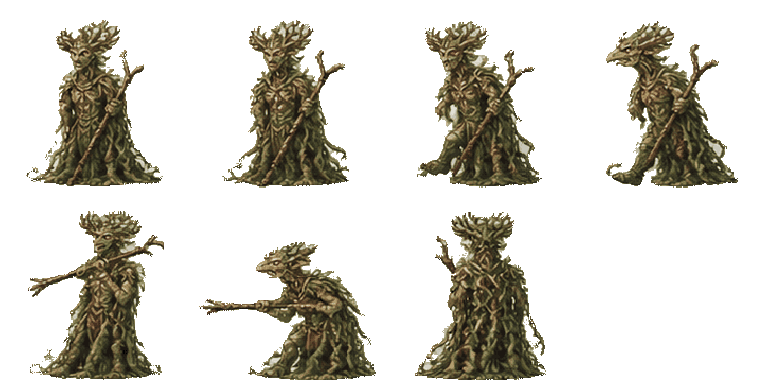
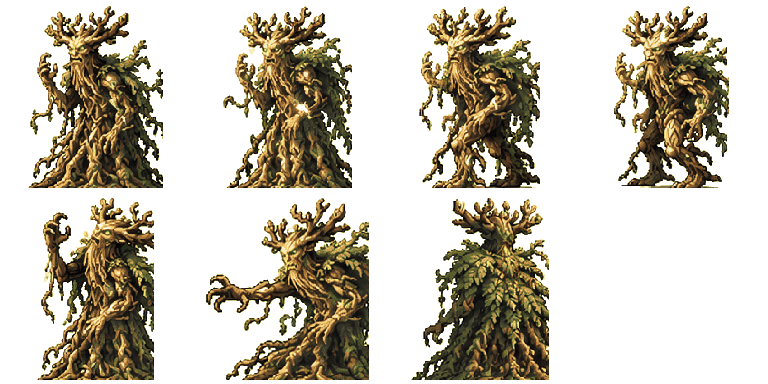
GRAFTBOUND v1.8.1-beta: owner gameplay fixes and newly painted HD-2D bosses

diff --git a/graftbound/src/ui/battle-ui.js b/graftbound/src/ui/battle-ui.js
@@ -27,7 +27,7 @@ import { terrainInspectPlacement, TileInspectLatch } from './terrain-inspect.js'
 import { exileZone, discardRequirement } from '../engine/zones.js';
 import { exilePortalCanvas } from './exile-portal.js';
 import { visualScale } from '../rendering/creature-scale.js';
-import { wolfCoatFor, recoatSheet, WOLF_KEYS, LEADER_KEYS, LEADER_COAT } from '../rendering/creature-variants.js';
+import { wolfCoatFor, recoatSheet, WOLF_KEYS, LEADER_KEYS, LEADER_COAT, THEME_BIOME } from '../rendering/creature-variants.js';
 
 const $ = id => document.getElementById(id);
 const SPELL_COL = { ember: [1, 0.55, 0.2], verdant: [0.5, 1, 0.4], tide: [0.4, 0.8, 1], umbral: [0.75, 0.45, 1], radiant: [1, 0.9, 0.5] };
@@ -39,6 +39,18 @@ export function kwChips(keywords, cls = '') {
 }
 
 const exileCount = s => { const z = exileZone(s); return z.yours.length + z.foes.length; };
+/** v1.8.1 status presentation (pure). Friendly buffs rise, hostile effects drip; colours are fixed per status so they
+ *  stay distinguishable. Re-uses previous entries so pulse timers don't restart on every label refresh. */
+const s0Traits = ui => ui.s?.traits || [];
+export const STATUS_FX = Object.freeze({
+  empowered: { col: [1, 0.8, 0.3], hostile: false }, shield: { col: [0.5, 0.8, 1], hostile: false }, guard: { col: [0.62, 0.86, 1], hostile: false },
+  weakened: { col: [0.72, 0.32, 0.92], hostile: true }, poison: { col: [0.42, 0.95, 0.3], hostile: true }, stunned: { col: [1, 0.95, 0.45], hostile: true }, grounded: { col: [0.75, 0.55, 0.35], hostile: true },
+});
+export function statusVisuals(d, prev = []) {
+  const out = [];
+  for (const [k, spec] of Object.entries(STATUS_FX)) if (d?.[k] > 0) out.push(prev?.find(p => p.key === k) || { key: k, col: spec.col, hostile: spec.hostile, t: 0 });
+  return out;
+}
 export class BattleUI {
   constructor(app) {
     this.app = app; this.audio = app.audio;
@@ -115,6 +127,7 @@ export class BattleUI {
       const ap = deriveAppearance(this.run.evo, visualForRun(this.run));
       v = this.scene.addUnit(u, 'blank'); { const bm = this.app.assets.manifest.sprites.blank; this.scene.setUnitTexture(u.uid, composeEquippedSheet(this.app.assets, ap, u.equipment || [], u.auras || []), visualScale('blank', bm, bm.bounds, { heroSize: ap.size })); }
       v.aura = ap.effects.includes('aura') ? ap.glow : null;
+      v.electro = !!s0Traits(this).includes('electrofield');   // v1.8.1 passive Electrostatic Field arcs (visual only)
       v.hover = u.keywords.flying ? 0.14 : 0;   // v0.6: fliers levitate; trample builds plant heavier steps (see play())
       v.style = { flying: !!u.keywords.flying, trample: !!u.keywords.trample, deathtouch: !!u.keywords.deathtouch, doubleStrike: !!u.keywords.doubleStrike, lifelink: !!u.keywords.lifelink,
         armored: !!ap.slots.body || ap.size >= 1.45 };
@@ -129,7 +142,7 @@ export class BattleUI {
         u.name === 'Soldier' ? 'mtg_friendlySoldier' : 'mtg_friendlySproutling');
       v = this.scene.addUnit(u, friend ? tokenKey : ENEMIES[u.defId].sprite);   // v1.7.0: size from the central species table
       { const key = friend ? tokenKey : ENEMIES[u.defId].sprite, img = this.app.assets.images[key];   // v1.7.0 wolf coats / pack leader
-        const coat = LEADER_KEYS.has(key) ? LEADER_COAT : WOLF_KEYS.has(key) ? wolfCoatFor(this.run?.seed || 0, u.uid) : null;
+        const coat = LEADER_KEYS.has(key) ? LEADER_COAT : WOLF_KEYS.has(key) ? wolfCoatFor(this.run?.seed || 0, u.uid, THEME_BIOME[this.scene?.theme] || 'temperate') : null;
         if (coat && coat.hue != null && img) this.scene.setUnitTexture(u.uid, recoatSheet(img, coat, key)); }
       if (friend && tokenKey === 'mtg_friendlySoldier') {
         const src=this.app.assets.images.mtg_friendlySoldier, mask=this.app.assets.images['mtg_friendlySoldier:skinMask'];
@@ -163,7 +176,7 @@ export class BattleUI {
     else v.aura=null;
   }
   syncDisp() {
-    for (const u of this.s.units) this.disp.set(u.uid, { hp: u.hp, maxHp: u.maxHp, shield: u.statuses.shield || 0, poison: u.statuses.poison || 0, stunned: u.statuses.stunned || 0, empowered: u.statuses.empowered || 0, weakened: u.statuses.weakened || 0, grounded: u.statuses.grounded || 0 });
+    for (const u of this.s.units) this.disp.set(u.uid, { hp: u.hp, maxHp: u.maxHp, shield: u.statuses.shield || 0, guard: u.statuses.guard || 0, poison: u.statuses.poison || 0, stunned: u.statuses.stunned || 0, empowered: u.statuses.empowered || 0, weakened: u.statuses.weakened || 0, grounded: u.statuses.grounded || 0 });
     this.dispMana = availableMana(this.s);
   }
   frame() {
@@ -197,11 +210,12 @@ export class BattleUI {
     }
     const u = this.s.units.find(x => x.uid === uid);
     const armor = u && u.keywords && u.keywords.armor ? `<span class="st ar">▣${u.keywords.armor}</span>` : '';
-    const stList = [armor, u?.slime ? `<span class="st gb-slime" title="Toxrill: ${u.slime} slime counter(s), -${u.slime}/-${u.slime}">☣${u.slime}</span>` : '', d.grounded ? `<span class="st gr">${ICON.hook}</span>` : '', d.weakened ? `<span class="st wk">−${d.weakened}⚔</span>` : '', d.shield ? `<span class="st sh">${ICON.shield}${d.shield}</span>` : '', d.poison ? `<span class="st ps">${ICON.poison}${d.poison}</span>` : '', d.stunned ? `<span class="st sn">${ICON.stun}</span>` : '', d.empowered ? `<span class="st em">+${d.empowered}</span>` : ''];
+    const stList = [armor, u?.slime ? `<span class="st gb-slime" title="Toxrill: ${u.slime} slime counter(s), -${u.slime}/-${u.slime}">☣${u.slime}</span>` : '', d.grounded ? `<span class="st gr">${ICON.hook}</span>` : '', d.weakened ? `<span class="st wk">−${d.weakened}⚔</span>` : '', d.shield ? `<span class="st sh">${ICON.shield}${d.shield}</span>` : '', d.guard ? `<span class="st sh gb-guard" title="Guard ${d.guard}: each enemy hit is reduced by ${d.guard}">${ICON.guard}${d.guard}</span>` : '', d.poison ? `<span class="st ps">${ICON.poison}${d.poison}</span>` : '', d.stunned ? `<span class="st sn">${ICON.stun}</span>` : '', d.empowered ? `<span class="st em">+${d.empowered}</span>` : ''];
     // v1.7.0: at most 3 status chips; the rest fold into a '+n' chip (full list in its tooltip)
     const stShown = stList.filter(Boolean), st = (stShown.length > 3 ? [...stShown.slice(0, 2), `<span class="st more" title="${esc(stShown.slice(2).map(x => x.replace(/<[^>]+>/g, '')).join(' · '))}">+${stShown.length - 2}</span>`] : stShown).join('');
     el.innerHTML = `${intent}<div class="hpbar"><i style="width:${pct}%"></i><span>${d.hp}</span></div><div class="sts">${st}</div>`;
     el._h = el.offsetHeight || 24;
+    { const view = this.scene.units.get(uid); if (view) view.statusFx = statusVisuals(d, view.statusFx); }
   }
   intentText(it) {
     const tgt = it.target && this.s.units.find(u => u.uid === it.target);
@@ -219,8 +233,8 @@ export class BattleUI {
     $('plate').innerHTML = `
       <div class="pl-top"><div><div class="pl-name">${esc(this.run.name)}</div><div class="pl-stage">${STAGE[ap.stage]} · ${this.run.evo.absorbed.length} graft${this.run.evo.absorbed.length === 1 ? '' : 's'}</div></div>
       <div class="pl-pt" title="Power / Toughness"><span class="${d.empowered ? 'buff' : d.weakened ? 'debuff' : ''}">${Math.max(0, p.power + (d.empowered || 0) - (d.weakened || 0))}</span>/<span>${p.toughness}</span></div></div>
-      <div class="pl-hp" tabindex="0" data-tip="Health ${d.hp}/${d.maxHp}${d.shield ? ` · shield ${d.shield} absorbs damage first` : ''}. Wounds carry between battles."><div class="bar"><i style="width:${(d.hp / d.maxHp) * 100}%"></i>${d.shield ? `<u style="width:${Math.min(100, d.shield / d.maxHp * 100)}%"></u>` : ''}</div>
-      <span>${ICON.heart}${d.hp}<small>/${d.maxHp}</small>${d.shield ? ` <em class="shd">${ICON.shield}${d.shield}</em>` : ''}</span></div>
+      <div class="pl-hp" tabindex="0" data-tip="Health ${d.hp}/${d.maxHp}${d.shield ? ` · shield ${d.shield} absorbs damage first` : ''}${d.guard ? ` · Guard ${d.guard} reduces each enemy hit` : ''}. Wounds carry between battles."><div class="bar"><i style="width:${(d.hp / d.maxHp) * 100}%"></i>${d.shield ? `<u style="width:${Math.min(100, d.shield / d.maxHp * 100)}%"></u>` : ''}</div>
+      <span>${ICON.heart}${d.hp}<small>/${d.maxHp}</small>${d.shield ? ` <em class="shd" title="Shield ${d.shield}: absorbs ${d.shield} total damage, then is gone">${ICON.shield}${d.shield}</em>` : ''}${d.guard ? ` <em class="shd gb-guard" title="Guard ${d.guard}: each enemy hit is reduced by ${d.guard} (telegraphed blows at least halved) until your next turn">${ICON.guard}Guard ${d.guard}</em>` : ''}</span></div>
       <div class="pl-res"><span class="mana" tabindex="0" data-tip="Mana ${this.dispMana}/${s.p.maxMana}. Spells cost gems. You regain ${s.p.regen} each turn${s.p.arcane ? `; Arcane adds +${s.p.arcane} to spell numbers` : ''}.">${Array.from({ length: Math.max(s.p.maxMana, this.dispMana) }, (_, i) => `<i class="${i < this.dispMana ? 'on' : ''}">${ICON.gem}</i>`).join('')}</span>
 </div>
       <div class="pl-act" role="group" aria-label="Movement, attacks and banked mana"></div>

diff --git a/graftbound/src/engine/ai.js b/graftbound/src/engine/ai.js
@@ -113,8 +113,14 @@ function straightLine(s, from, dir, range) {
  * their next turn outrank the hero, but targets still obey range/line of sight. */
 /** v1.7.0 marksman ordinary shot: one per enemy turn, line of sight, printed Longbow damage, player team only. */
 export function quickShotTarget(s, e, from = e) { const q = ENEMIES[e.defId]?.quickShot; return q ? rangedPriority(s, e, q.range, from, true) : null; }
-function quickShot(s, ev, e, target = quickShotTarget(s, e)) {
-  const q = ENEMIES[e.defId]?.quickShot; if (!q || !target || !alive(target) || target.side === e.side) return;
+/** v1.8.1: the ordinary shot happens AT MOST ONCE per enemy turn (guarded by e.quickShotTurn), from the archer's CURRENT
+ *  position, re-validating range/line of sight against the live board (targets that moved or died are re-picked). */
+function quickShot(s, ev, e, preferred = null) {
+  const q = ENEMIES[e.defId]?.quickShot; if (!q || !alive(e) || s.phase !== 'enemy' || e.statuses?.stunned || e.quickShotTurn === s.turn) return;
+  const ok = u => u && alive(u) && u.side !== e.side && manhattan(e, u) <= q.range && lineOfSight(s, e, u);
+  const target = ok(preferred) ? preferred : quickShotTarget(s, e);
+  if (!ok(target)) return;
+  e.quickShotTurn = s.turn;
   ev.push({ t: 'attack', uid: e.uid, target: target.uid, ranged: true, kind: 'quickShot' }, { t: 'realAbility', uid: e.uid, name: 'Quick shot' });
   dealDamage(s, ev, e, target, q.damage, { kind: 'arrow' });
 }
@@ -324,7 +330,9 @@ export function planEnemy(s, e) {
       }
       if(choice){go(choice.t);plan.actions.push({type:'aim',tiles:choice.line,damage:def.aimDamage});
         const qt=quickShotTarget(s,e,posAfter());if(qt)plan.actions.push({type:'quickShot',target:qt.uid,damage:def.quickShot.damage});}
-      else{const p=victims[0]||hero;const t=list.slice().sort((a,b)=>manhattan(a,p)-manhattan(b,p)||a.cost-b.cost||cmpTile(a,b))[0];go(t);meleeIfAdjacent(meleeTarget(s,{...e,...posAfter()}));}
+      // v1.8.1: no prepared line -> still take the ordinary ranged shot if anything is in range/sight; melee only otherwise
+      else{const p=victims[0]||hero;const t=list.slice().sort((a,b)=>manhattan(a,p)-manhattan(b,p)||a.cost-b.cost||cmpTile(a,b))[0];go(t);
+        const qt=quickShotTarget(s,e,posAfter());if(qt)plan.actions.push({type:'quickShot',target:qt.uid,damage:def.quickShot.damage});else meleeIfAdjacent(meleeTarget(s,{...e,...posAfter()}));}
       break;
     }
     case 'guardian': {
@@ -457,7 +465,7 @@ function resolvePending(s, ev, e) {
     let victim = null;
     for (const t of aim.tiles) { if (tileAt(s, t.x, t.y) === T.ROCK) break; const u = unitAt(s, t.x, t.y); if (u && alive(u) && u.side !== e.side) { victim = u; break; } }
     if (victim) dealDamage(s, ev, e, victim, aim.damage, { kind: 'arrow' });
-    if (ENEMIES[e.defId]?.quickShot && alive(e) && s.phase === 'enemy') quickShot(s, ev, e);   // the turn's ordinary shot
+    quickShot(s, ev, e);   // the turn's ordinary shot (guarded: once per turn)
     return true;
   }
   if (e.slam) {
@@ -560,7 +568,7 @@ export function actEnemy(s, ev, e) {
       case 'hex': {const tgt=s.units.find(u=>u.uid===a.target&&alive(u));if(!tgt)break;ev.push({t:'hex',uid:e.uid,target:tgt.uid});dealDamage(s,ev,e,tgt,a.damage,{kind:'hex'});if(alive(tgt))addStatus(s,ev,tgt,'weakened',a.weaken);break;}
       case 'harpoon': {const tgt=s.units.find(u=>u.uid===a.target&&alive(u));if(!tgt)break;ev.push({t:'harpoon',uid:e.uid,target:tgt.uid});dealDamage(s,ev,e,tgt,a.damage,{kind:'harpoon'});if(a.ground&&alive(tgt))addStatus(s,ev,tgt,'grounded',1);break;}
       case 'aim': e.aim = { tiles: a.tiles, damage: a.damage }; ev.push({ t: 'aim', uid: e.uid, tiles: a.tiles }); break;
-      case 'quickShot': { const tgt = s.units.find(u => u.uid === a.target && alive(u)); if (tgt) quickShot(s, ev, e, tgt); break; }
+      case 'quickShot': quickShot(s, ev, e, s.units.find(u => u.uid === a.target)); break;
       case 'sporefield':
     case 'fissure':
     case 'fracture': {

diff --git a/graftbound/src/rendering/scene.js b/graftbound/src/rendering/scene.js
@@ -413,9 +413,30 @@ export class Scene {
       if (e.kind === 'lava' && r() < 0.3) this.fx.emit({ pos: [e.pos[0] + (r() - 0.5) * 0.6, e.pos[1] + 0.02, e.pos[2] + (r() - 0.5) * 0.6], vel: [(r() - 0.5) * 0.2, 0.6 + r() * 0.8, (r() - 0.5) * 0.2], col: [1, 0.5 + r() * 0.3, 0.12, 1], size: 6 + r() * 5, life: 0.9, grav: -0.6, drag: 0.4 });
       if (e.kind === 'fire' || e.kind === 'voidfire') for (let k = 0; k < 2; k++) this.fx.emit({ pos: [e.pos[0] + (r() - 0.5) * 0.15, e.pos[1], e.pos[2] + (r() - 0.5) * 0.15], vel: [(r() - 0.5) * 0.2, 0.9 + r() * 0.6, (r() - 0.5) * 0.2], col: e.kind === 'voidfire' ? (r() < 0.3 ? [0.9, 0.8, 1, 1] : [0.6, 0.3, 1, 1]) : (r() < 0.3 ? [1, 0.9, 0.5, 1] : [1, 0.45, 0.12, 1]), size: 10 + r() * 8, life: 0.5 + r() * 0.3, drag: 1 });
     }
-    for (const v of this.units.values()) if (v.aura && r() < 0.6) {
-      const a = r() * 6.28; const h = this.heightOf(v);
-      this.fx.emit({ pos: [v.pos[0] + Math.cos(a) * 0.3 * v.scale, v.pos[1] + 0.1 + r() * h, v.pos[2] + Math.sin(a) * 0.3 * v.scale], vel: [0, 0.35, 0], col: [...v.aura, 0.9], size: 7, life: 1, drag: 0.3 });
+    // v1.8.1: buffs/auras/statuses read ~2x stronger (presentation only; see statusVisuals in battle-ui.js).
+    // Permanent auras: a steady column of rising motes (2x rate, ~1.6x size, brighter core).
+    // Temporary statuses: a pulsing ground ring + motes; friendly effects RISE, hostile effects DRIP DOWN.
+    const pulse = this.reduced ? 1.6 : 0.9, dens = Math.max(0.35, this.fx.density || 1);
+    for (const v of this.units.values()) {
+      if (v.hidden || v.dissolve > 0.5) continue;
+      const h = this.heightOf(v), rad = 0.32 * Math.min(1.6, v.scale * 2);
+      if (v.aura && r() < (this.reduced ? 0.5 : 1) * dens) for (let k = 0; k < 2; k++) { const a = r() * 6.28;
+        this.fx.emit({ pos: [v.pos[0] + Math.cos(a) * rad, v.pos[1] + 0.1 + r() * h, v.pos[2] + Math.sin(a) * rad], vel: [0, 0.4, 0], col: [...v.aura, 1], size: k ? 11 : 7, life: 1.1, drag: 0.3 }); }
+      // v1.8.1 Electrostatic Field graft: a tiny cool-blue arc crawls over the body every ~3 s (scene clock, no gameplay
+      // events, no simulation RNG). Size follows the sprite; reduced motion shows a single faint flicker less often.
+      if (v.electro) { v.electroT = (v.electroT ?? (v.uid % 7) * 0.4) + dt; const every = this.reduced ? 6 : 2.8;
+        if (v.electroT >= every) { v.electroT = 0; const n = this.reduced ? 1 : 3;
+          for (let k = 0; k < n; k++) { const a = (this.time * 1.7 + k * 2.1) % 6.283, y0 = v.pos[1] + h * (0.25 + 0.5 * ((k * 0.37 + this.time * 0.13) % 1));
+            const p = [v.pos[0] + Math.cos(a) * rad * 0.8, y0, v.pos[2] + Math.sin(a) * rad * 0.8];
+            this.addBolt({ a: p, b: [p[0] + Math.cos(a + 1.2) * 0.18, p[1] + 0.12, p[2] + Math.sin(a + 1.2) * 0.18], life: 0.12, width: 0.018, col: [0.55, 0.85, 1], segs: 4 }); }
+          if (!this.reduced) this.light([v.pos[0], v.pos[1] + h * 0.5, v.pos[2]], [0.5, 0.8, 1], 1.0, 0.18, 0.7); } }
+      for (const fx of v.statusFx || []) {
+        fx.t = (fx.t || r() * pulse) + dt;
+        if (fx.t >= pulse) { fx.t = 0; this.addRing({ pos: [v.pos[0], 0.035, v.pos[2]], r0: fx.hostile ? rad * 1.5 : rad * 0.6, r1: fx.hostile ? rad * 0.6 : rad * 1.5, life: 0.6, col: fx.col, width: 0.07, seg: 24 }); }
+        if (!this.reduced && r() < 0.55 * dens) { const a = r() * 6.28;
+          this.fx.emit({ pos: [v.pos[0] + Math.cos(a) * rad, v.pos[1] + (fx.hostile ? h * (0.6 + r() * 0.4) : 0.1 + r() * h * 0.5), v.pos[2] + Math.sin(a) * rad],
+            vel: [0, fx.hostile ? -0.45 : 0.5, 0], col: [...fx.col, 1], size: 10, life: 0.9, drag: 0.2 }); }
+      }
     }
   }
 }

diff --git a/graftbound/src/rendering/vfx.js b/graftbound/src/rendering/vfx.js
@@ -289,7 +289,31 @@ export async function snakeskin(sc, { from, to, target, charged = false }) {
   await sleep(sc, 210);
 }
 /** Distinct hand-authored cast identities for the expanded real-card spellbook. */
-export async function strikeBolt(sc, args) { await lightningBolt(sc, args); }
+/** v1.8.1 Lightning Strike: storm smoke gathers ABOVE THE CASTER'S HEAD, coalesces into a small thundercloud that pulses
+ *  with internal sparks, then the existing bolt launches FROM that cloud to the target; the cloud breaks into wisps after.
+ *  Presentation only: same bolt/branching/impact as before. Fast/instant: no cloud. Reduced motion: short static cloud. */
+export const STORM_CLOUD = Object.freeze({ gather: 420, pulse: 260, above: 0.42 });
+export async function strikeBolt(sc, args) {
+  const uid = args.uidFrom ?? args.uid, fast = sc.speed >= 50;
+  if (fast || uid == null || typeof sc.headPos !== 'function' || !sc.units?.get?.(uid)) { await lightningBolt(sc, args); return; }
+  const head = sc.headPos(uid), cloud = [head[0], head[1] + STORM_CLOUD.above, head[2]], reduced = sc.reduced;
+  const SMOKE = [0.36, 0.4, 0.5], DARK = [0.2, 0.22, 0.3];
+  // 1 · gather: dark grey/blue wisps spiral in toward a point above the head
+  for (let i = 0; i < (reduced ? 6 : 16); i++) { const a = i / 16 * 6.283, r = 0.55 + (i % 3) * 0.12;
+    sc.fx.emit({ pos: [cloud[0] + Math.cos(a) * r, cloud[1] - 0.15 + (i % 4) * 0.08, cloud[2] + Math.sin(a) * r], vel: [-Math.cos(a) * r * 1.8, 0.1, -Math.sin(a) * r * 1.8], col: [...(i % 2 ? SMOKE : DARK), 0.85], size: 18, life: 0.6, drag: 1.6, target: () => cloud }, true); }
+  sc.addShadow?.({ frames: [[0, 0], [1, 0]], fps: 4, pos: cloud, size: 0.55, life: (STORM_CLOUD.gather + STORM_CLOUD.pulse) / 1000 + 0.6, fadeIn: 0.25, fadeOut: 0.45 });   // smoke puff sprite
+  await sleep(sc, reduced ? 160 : STORM_CLOUD.gather);
+  // 2 · pulse: the cloud flickers with small internal sparks
+  const L = sc.light(cloud, [0.6, 0.8, 1], 1.8, 0.5, 1.3);
+  for (let i = 0; i < (reduced ? 1 : 3); i++) { const p = add(cloud, [R() * 0.25, R() * 0.1, R() * 0.25]); sc.addBolt({ a: p, b: add(p, [R() * 0.3, R() * 0.15, R() * 0.3]), life: 0.08, width: 0.02, col: ELECTRIC, segs: 3 }); }
+  await sleep(sc, reduced ? 90 : STORM_CLOUD.pulse);
+  // 3 · release from the cloud (existing bolt; charged=true skips the old hand charge)
+  await lightningBolt(sc, { ...args, from: cloud, charged: true });
+  L.life = Math.min(L.life, 0.15);
+  // 4 · disperse into drifting wisps
+  for (let i = 0; i < (reduced ? 3 : 10); i++) { const a = i * 0.63;
+    sc.fx.emit({ pos: add(cloud, [Math.cos(a) * 0.12, 0, Math.sin(a) * 0.12]), vel: [Math.cos(a) * 0.5, 0.25, Math.sin(a) * 0.5], col: [...SMOKE, 0.7], size: 16, life: 0.7, drag: 1.2 }, true); }
+}
 export async function murder(sc, args) { await shadowMurder(sc, args); }   // v1.6.0 umbral: grasping shadow hand
 export async function revitalize(sc, args) { await heal(sc, args); }
 export async function divination(sc, { from }) {

diff --git a/graftbound/src/rendering/creature-variants.js b/graftbound/src/rendering/creature-variants.js
@@ -16,7 +16,21 @@ export const LEADER_COAT = Object.freeze({ name: 'packLeader', hue: 220, sat: 0.
 export const WOLF_KEYS = Object.freeze(new Set(['mtg_wolf', 'mtg_hound']));
 export const LEADER_KEYS = Object.freeze(new Set(['mtg_alpha']));
 const mix32 = x => { x >>>= 0; x ^= x >>> 16; x = Math.imul(x, 0x7feb352d); x ^= x >>> 15; x = Math.imul(x, 0x846ca68b); x ^= x >>> 16; return x >>> 0; };
-export const wolfCoatFor = (seed, uid) => WOLF_COATS[mix32((seed >>> 0) ^ Math.imul(uid >>> 0, 0x9e3779b1)) % WOLF_COATS.length];
+/** v1.8.1 coat frequencies by BIOME (game-design weights, not a biological census — real wolf colour varies strongly with
+ *  latitude/habitat). Temperate forest: grey/timber common, white rare. Arctic: white common. Weights are integers summing
+ *  to 100; selection is a deterministic hash of (seed, uid) — never combat RNG — and has no rarity meaning in play. */
+export const COAT_WEIGHTS = Object.freeze({
+  temperate: Object.freeze({ timber: 35, grey: 35, russet: 15, shadow: 12, arctic: 3 }),
+  arctic: Object.freeze({ arctic: 70, grey: 20, timber: 5, shadow: 5, russet: 0 }),
+});
+/** Battle themes -> biome. Every current GRAFTBOUND act is temperate (forest hollow, ash warrens, ruined nexus). */
+export const THEME_BIOME = Object.freeze({ hollow: 'temperate', warrens: 'temperate', nexus: 'temperate', tundra: 'arctic', glacier: 'arctic' });
+export function wolfCoatFor(seed, uid, biome = 'temperate') {
+  const w = COAT_WEIGHTS[biome] || COAT_WEIGHTS.temperate, total = Object.values(w).reduce((a, b) => a + b, 0);
+  let r = mix32((seed >>> 0) ^ Math.imul(uid >>> 0, 0x9e3779b1)) % total;
+  for (const coat of WOLF_COATS) { const k = w[coat.name] || 0; if (r < k) return coat; r -= k; }
+  return WOLF_COATS[0];
+}
 function rgb2hsl(r, g, b) { r /= 255; g /= 255; b /= 255; const mx = Math.max(r, g, b), mn = Math.min(r, g, b), l = (mx + mn) / 2; if (mx === mn) return [0, 0, l];
   const d = mx - mn, s = l > 0.5 ? d / (2 - mx - mn) : d / (mx + mn); let h = mx === r ? (g - b) / d + (g < b ? 6 : 0) : mx === g ? (b - r) / d + 2 : (r - g) / d + 4; return [h * 60, s, l]; }
 function hsl2rgb(h, s, l) { const k = n => (n + h / 30) % 12, a = s * Math.min(l, 1 - l), f = n => l - a * Math.max(-1, Math.min(k(n) - 3, 9 - k(n), 1)); return [f(0), f(8), f(4)].map(v => Math.round(Math.max(0, Math.min(1, v)) * 255)); }

diff --git a/graftbound/dev/v181-qa.html b/graftbound/dev/v181-qa.html
@@ -1,0 +1,21 @@
+<!doctype html><meta charset="utf-8"><title>v181</title>
+<style>html,body{margin:0;background:#000}canvas{display:block;width:1000px;height:640px}</style>
+<canvas id="gl"></canvas>
+<script type="module">
+// v1.8.1 QA: real loadAssets + Scene: refined bosses, repaired golems, 2x status visuals, Electrostatic arcs.
+import { loadAssets } from '../src/rendering/sprites.js';
+import { Scene } from '../src/rendering/scene.js';
+import { T } from '../src/core/grid.js';
+import { statusVisuals } from '../src/ui/battle-ui.js';
+const q = new URLSearchParams(location.search);
+const assets = await loadAssets(); const sc = new Scene(document.getElementById('gl'), assets); sc.setQuality && sc.setQuality('balanced');
+const w = 8, h = 8, terrain = new Array(w * h).fill(T.FLOOR); sc.loadArena({ w, h, terrain, crystals: [], units: [] }, 7, q.get('theme') || 'nexus');
+const set = q.get('set') || 'golem';
+const L = set === 'boss' ? [[1, 2, 'mtg_nemata'], [4, 2, 'mtg_drakuseth'], [6, 4, 'mtg_toxrill'], [3, 5, 'blank']]
+  : [[1, 3, 'mtg_golemVigilance'], [3, 3, 'mtg_golemTrample'], [5, 3, 'mtg_sentinel'], [2, 5, 'mtg_nullwarden'], [4, 5, 'blank'], [6, 5, 'mtg_friendlySoldier']];
+L.forEach(([x, y, k], i) => { if (!assets.manifest.sprites[k]) return; const v = sc.addUnit({ uid: i + 1, side: k === 'blank' || k === 'mtg_friendlySoldier' ? 'player' : 'enemy', x, y }, k);
+  if (set === 'golem') v.statusFx = statusVisuals(k === 'blank' ? { empowered: 2, guard: 2 } : k === 'mtg_friendlySoldier' ? { shield: 3 } : i === 0 ? { poison: 2 } : i === 1 ? { weakened: 1 } : {});
+  if (k === 'blank') v.electro = true; });
+sc.zoom = +(q.get('zoom') || 1.4); sc.focus = [0, 0, 0.2]; sc.focusTarget = sc.focus.slice();
+let k = 0; const tick = () => { sc.frame(0.2); k++; if (k < 18) setTimeout(tick, 0); else { window.__png = document.getElementById('gl').toDataURL('image/png'); document.title = 'done'; } }; setTimeout(tick, 0);
+</script>

diff --git a/graftbound/src/engine/abilities.js b/graftbound/src/engine/abilities.js
@@ -208,13 +208,17 @@ export function dealDamage(s, ev, src, tgt, amount, { combat = false, kind = 'hi
   if (src && src.side === 'player' && tgt.side === 'enemy') s.stats.damageDealt += lost;
   // v1.7.0 attribution: only ENEMY-caused health loss restrains Global Threat — a foe source, or an explicit cause:'enemy'
   // (foe-created hazards, foe-inflicted poison). Self-damage, own spells/allies and neutral terrain never count.
-  if (tgt.hero) { s.stats.damageTaken += lost; if (src?.side === 'enemy' || (!src && cause === 'enemy')) s.stats.enemyHealthDamage = (s.stats.enemyHealthDamage || 0) + lost; }
+  // v1.8.1: a foe's death trigger (e.g. Mudbutton Torchrunner) is the unavoidable RESULT of killing it. It still removes
+  // HP and counts as damage taken (scoring), but is tracked separately and does NOT count against Global Threat.
+  if (tgt.hero) { s.stats.damageTaken += lost;
+    if (kind === 'deathTrigger') s.stats.deathTriggerHp = (s.stats.deathTriggerHp || 0) + lost;
+    else if (src?.side === 'enemy' || (!src && cause === 'enemy')) s.stats.enemyHealthDamage = (s.stats.enemyHealthDamage || 0) + lost; }
   // Real infect replaces health damage with poison counters against a player.
   // Against creatures, damage is represented by persistent -1/-1 counters.
   if(combat && src?.keywords?.infect && a>0){
     if(tgt.hero){
       tgt.hp=hpBefore;s.stats.damageTaken=Math.max(0,s.stats.damageTaken-lost);
-      if(src.side==='enemy')s.stats.enemyHealthDamage=Math.max(0,(s.stats.enemyHealthDamage||0)-lost);
+      if(src.side==='enemy'&&kind!=='deathTrigger')s.stats.enemyHealthDamage=Math.max(0,(s.stats.enemyHealthDamage||0)-lost);
       s.poisonCounters=(s.poisonCounters||0)+a;
       ev.push({t:'poisonCounter',uid:tgt.uid,amount:a,total:s.poisonCounters});
       if(s.poisonCounters>=10){s.phase='lost';ev.push({t:'defeat',kind:'poison'});}

diff --git a/graftbound/styles.css b/graftbound/styles.css
@@ -1058,3 +1058,13 @@ body:not([data-mode="battle"]) #graftPowers{display:none!important}
 /* A pinned panel is informational, not a modal: clicks outside Details pass to the battlefield. */
 #hud #inspect.terrain-inspect.terrain-locked{pointer-events:none!important;z-index:18}
 #hud #inspect.terrain-inspect.terrain-locked .gb-terrain-details-btn{pointer-events:auto!important;cursor:pointer;position:relative;z-index:1}
+
+/* v1.8.1 Guard badge beside Shield (per-hit reduction, visually distinct from absorbing Shield) */
+.pl-hp .gb-guard{color:#9fd3ff;background:rgba(40,80,120,.35);border:1px dashed rgba(159,211,255,.7);border-radius:6px;padding:0 4px;margin-left:3px;font-style:normal;white-space:nowrap}
+.ulabel .st.gb-guard{background:#1e3a52;color:#cfe8ff;border:1px dashed #9fd3ff}
+@media (max-width:360px){.pl-hp .gb-guard{font-size:.68rem;padding:0 2px}}
+
+/* v1.8.1 ~2x status readability: stronger chip contrast, glow and separation (no layout change) */
+.ulabel .sts .st{box-shadow:0 0 0 1px rgba(0,0,0,.85),0 0 6px currentColor;filter:saturate(1.35) brightness(1.15);font-weight:700}
+.ulabel .intent{box-shadow:0 0 0 1px #000,0 0 8px rgba(255,120,90,.55)}
+@media (prefers-reduced-motion:reduce){.ulabel .sts .st{box-shadow:0 0 0 1px rgba(0,0,0,.85)}}

diff --git a/graftbound/src/engine/ranked.js b/graftbound/src/engine/ranked.js
@@ -6,14 +6,14 @@ import { movePlayer, attack, cast, endTurn, interact, guard, channel, discard, e
 import { expeditionTotals } from './scoring.js';
 import { SCORING_VERSION } from '../data/scoring.js';
 
-export const RULES_VERSION = 'graftbound-rules-1.8.0-beta';
+export const RULES_VERSION = 'graftbound-rules-1.8.1-beta';
 export const CARD_POOL_VERSION = 'real-pool-133-v7';
 export const REPLAY_VERSION = 1;
 export const MAX_DECISIONS = 4000, MAX_SEGMENT = 400;
 
 /** Fixed, versioned challenges. Seeds are authored here; servers never accept a client-chosen seed. */
 export const RANKED_CHALLENGES = {
-  'gb-expedition-01': { id: 'gb-expedition-01', revision: 27, name: 'The First Expedition', seed: 0x5eedcafe, tutorial: true,
+  'gb-expedition-01': { id: 'gb-expedition-01', revision: 28, name: 'The First Expedition', seed: 0x5eedcafe, tutorial: true,
     rulesVersion: RULES_VERSION, cardPoolVersion: CARD_POOL_VERSION, scoringVersion: SCORING_VERSION, status: 'active' },
 };
 export const ACTIVE_CHALLENGE = 'gb-expedition-01';

diff --git a/graftbound/src/engine/scoring.js b/graftbound/src/engine/scoring.js
@@ -31,7 +31,7 @@ export function recordEncounter(run, b, key) {
     damage: b.stats.damageTaken, parActions: bm.parActions, damageBudget: bm.damageBudget, ...sc,
     // v1.6.0 analysis-only fields (never part of the score): enemy-caused health loss, the hero's maximum health and
     // the Global Threat applied to this encounter. threatAfter is filled in when threat settles.
-    enemyDamage: b.stats.enemyHealthDamage || 0, heroMaxHp: b.units.find(u => u.hero)?.maxHp || null, threat: b.worldThreat ?? null };
+    enemyDamage: b.stats.enemyHealthDamage || 0, deathTriggerDamage: b.stats.deathTriggerHp || 0, heroMaxHp: b.units.find(u => u.hero)?.maxHp || null, threat: b.worldThreat ?? null };
   run.scoring.encounters.push(entry);
   return entry;
 }

diff --git a/graftbound/src/config.js b/graftbound/src/config.js
@@ -1,4 +1,4 @@
 // GRAFTBOUND build constants. Rewards are real Magic: The Gathering cards only (curated, rules-checked).
 // Images/Oracle text load read-only from Scryfall and are shown unmodified with attribution; never turned into sprites.
-export const GAME = { title: 'GRAFTBOUND', tagline: 'Begin as nothing. Become everything.', version: '1.8.0-beta', path: '/graftbound/' };
+export const GAME = { title: 'GRAFTBOUND', tagline: 'Begin as nothing. Become everything.', version: '1.8.1-beta', path: '/graftbound/' };
 export const CONFIG = { SHOW_REFERENCE_IMAGES: true, LIVE_SCRYFALL: true, SCRYFALL_API: 'https://api.scryfall.com' };
